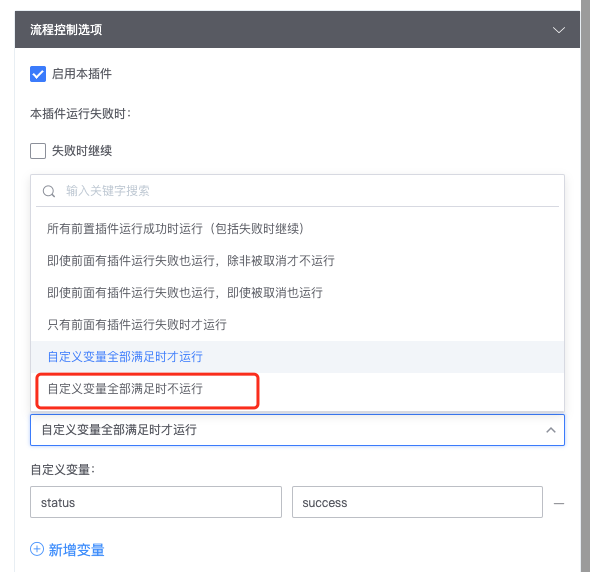
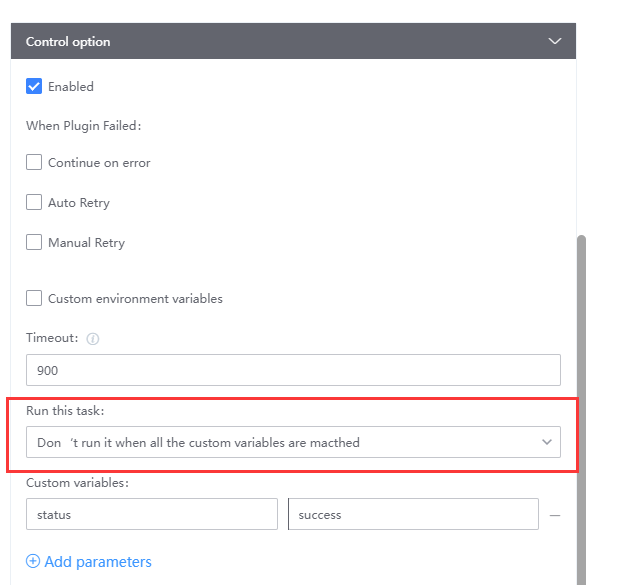
流水线变量

Changed region(s): [[0.0, 0.0, 0.9867, 1.0], [0.0299, 0.951, 0.2392, 0.9808]]

diff --git a/services/pipelines/pipeline-variables/pipeline-variables-flow-control.md b/services/pipelines/pipeline-variables/pipeline-variables-flow-control.md
@@ -3,16 +3,32 @@ Users can customize variables to control the execution of subsequent tasks, thus
 **Assume a scenario: **The stage3 shell script executes when the stage2 shell script executes successfully
 
 1. stage2 shell plug-in sets the status variable
-![Set status variable at end of shell script](../../../.gitbook/assets/image-variables-set-status-success.png)
-2. stage3 shell plug-in select "Run only when all custom variables are satisfied"
-![Select conditional execution](../../../.gitbook/assets/image-variables-run-if-var-set.png)
-3. The shell plug-in adds' status==success 'as a new execution condition variable
-![Set execution conditions](../../../.gitbook/assets/image-variables-status-condition.png)
-4. If the conditions are met, the command is executed successfully
-![Execution succeeds if conditions are met](../../../.gitbook/assets/image-variables-run-success.png)
-5. Failed to set analog variables
-![Simulation condition not satisfied](../../../.gitbook/assets/image-variables-set-status-failed.png)
-6. If the conditions are not met, the plug-in is not executed
-![Script does not run if conditions are not met](../../../.gitbook/assets/image-variables-skip-if-unsuccess.png)
-Similarly, you can reverse the execution criteria for a plug-in: "Run when all custom variables do not meet"
-![All user-defined variables do not meet the running time](../../../.gitbook/assets/image-variables-status-condition-not.png)
+
+2. ![Set status variable at end of shell script](../../../.gitbook/assets/image-variables-set-status-success.png)
+
+  
+
+3. stage3 shell plug-in select "Run it when all custom variables are macthed"
+
+  ![Select conditional execution](../../../.gitbook/assets/image-variables-run-if-var-set.png)
+
+  
+
+4. The shell plug-in adds' status==success 'as a new execution condition variable
+  ![Set execution conditions](../../../.gitbook/assets/image-variables-status-condition.png)
+
+5. If the conditions are met, the command is executed successfully
+
+  ![Execution succeeds if conditions are met](../../../.gitbook/assets/image-variables-run-success.png)
+
+6. Failed to set analog variables
+  ![Simulation condition not satisfied](../../../.gitbook/assets/image-variables-set-status-failed.png)
+
+  
+
+7. If the conditions are not met, the plug-in is not executed
+
+  ![Script does not run if conditions are not met](../../../.gitbook/assets/image-variables-skip-if-unsuccess.png)
+  Similarly, you can reverse the execution criteria for a plug-in: "Don‘t run it when all the custom variables are macthed"
+
+  ![All user-defined variables do not meet the running time](../../../.gitbook/assets/image-variables-status-condition-not.png)

diff --git a/services/pipelines/pipeline-variables/pipeline-variables-remark.md b/services/pipelines/pipeline-variables/pipeline-variables-remark.md
@@ -1,12 +1,23 @@
-# Pipeline note variable
+# Pipeline remark variable
 
 Pipeline remarks variable: `BK_CI_BUILD_REMARK`, with a short text to distinguish each build content, for example, set 'BK_CI_BUILD_REMARK' to the version number, to indicate the version of the package; Or set platform (windows/pc/ios/Android) to indicate the platform of the package
 **Application scenario:**Differentiate pipeline construction history
 
 1. Set the remarks variable
-![Set remarks variable](../../../.gitbook/assets/image-variables-set-remark.png)
-2. Display note variables
-![Set display column](../../../.gitbook/assets/image-variables-config-column.png)
-![Select Remarks](../../../.gitbook/assets/image-variables-select-remark.png)
-![Display remarks variable](../../../.gitbook/assets/image-variables-remark-view.png)
-**Note**: Note variables are displayed only when the pipeline is finished
+
+  ![Set remarks variable](../../../.gitbook/assets/image-variables-set-remark.png)
+
+  
+
+2. Display remark variables
+  ![Set display column](../../../.gitbook/assets/image-variables-config-column.png)
+
+  
+
+  ![Select Remarks](../../../.gitbook/assets/image-variables-select-remark.png)
+
+  
+
+  ![Display remarks variable](../../../.gitbook/assets/image-variables-remark-view.png)
+
+  **Note**: Remark variables are displayed only when the pipeline is finished

diff --git a/services/pipelines/pipeline-variables/README.md b/services/pipelines/pipeline-variables/README.md
@@ -1,6 +1,10 @@
 # pipeline variable
 In the pipeline, users can use global variables and custom variables to complete construction tasks or control the flow of the pipeline. Global variables can be referenced in the whole construction cycle of the pipeline. Some commonly used global variables can be obtained from "Reference Variables" in the upper right corner of the editing page of pipeline plug-in. '${variable name}', which can be used in most pipeline plug-in input fields to reference variables; Referencing variables in Batchscript is a little special. See "Basic Use of Variables" for details.
+
+
+
 ![Common global variable](../../../.gitbook/assets/image-variables-global-vars-view.png)
+
 The complete global variables can be viewed:
 {% content-ref url="../../../reference/pre-define-var/" %}
 [pre-define-var](../../../reference/pre-define-var/)

diff --git a/services/pipelines/pipeline-variables/pipeline-variables-ticket.md b/services/pipelines/pipeline-variables/pipeline-variables-ticket.md
@@ -1,5 +1,9 @@
 # Credential variable
 After setting the credential of **password type **in the credential management, you can reference the password variable in the pipeline. The password variable is project-level and can be referenced in different pipelines under the same project. It is applicable to the scene where variables need to be defined for the whole project, such as game platform, game version, branch name, etc.
 Reference:  ${credential name}
+
 ![Set password variable](../../../.gitbook/assets/image-variables-ticket-myvar.png)
+
+
+
 ![Reference password variable](../../../.gitbook/assets/image-variables-ticket-var-used.png)

diff --git a/services/pipelines/pipeline-variables/pipeline-variables-shell-batch.md b/services/pipelines/pipeline-variables/pipeline-variables-shell-batch.md
@@ -1,9 +1,10 @@
 # Use variables in the Shell/Batchscript plugin
 ## Use variables in Shell plug-ins
 ```shell
-# References the global variable WORKSPACEcd ${WORKSPACE}
+# References the global variable WORKSPACE
+cd ${WORKSPACE}
 
-Set custom variables: setEnv 'variable name' 'variable value'
+# Set custom variables: setEnv 'variable name' 'variable value'
 setEnv 'version' '3.2.16'
 ```
 
